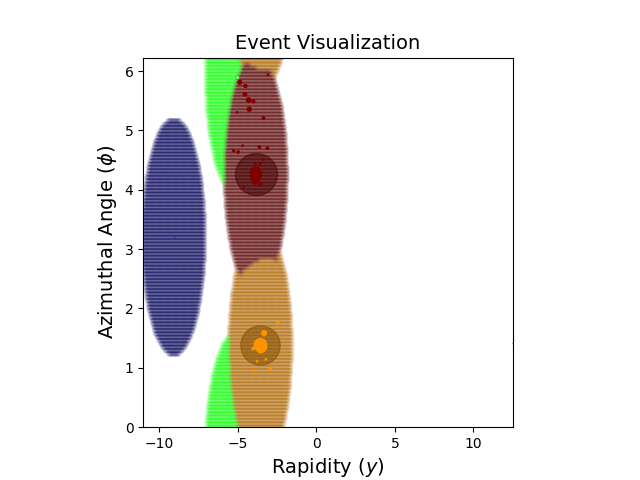
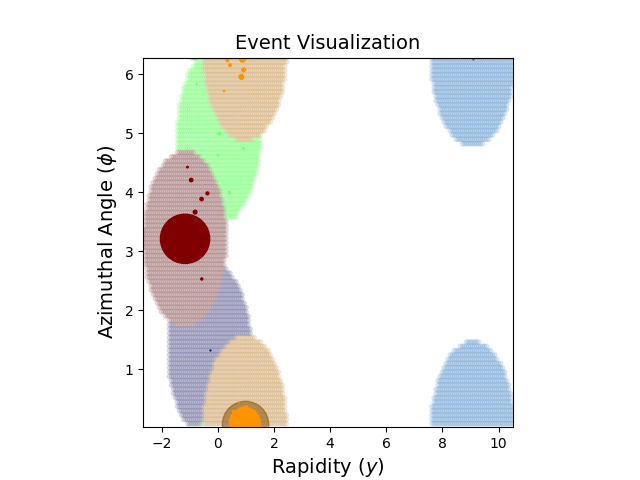
Added visualization to readme

diff --git a/README.md b/README.md
@@ -46,9 +46,14 @@ Jets help us bridge the gap between the low energy reality of our world and the 
     4) The structures that emerge in this radiative process are roughly cone-shaped -- because the "initial quark or gluon" is moving very fast, the radiation it releases tends to be moving very fast in the same direction.
     5) A **jet algorithm** is, loosely, an algorithm which groups together particles which lie together in cones. Jet algorithms are usually designed so that they can effectively represent the "original quarks and gluons" of step 2. When we apply a jet algorithm on a set of particles coming out of a particular particle collision, we call the resulting group of particles a **jet**. We can use our theory of quarks and gluons, and some complicated physics technology, to accurately describe the properties of jets that we see in particle collisions.
 
-Here is an example visualization of a jet:
-
 Jet algorithms are usually defined with a _radius_ -- roughly, they search for particles which lie in a circle in the space of outgoing particle angles.
+
+Here is an visualization of jets of radius 1.5 in an example particle collision, generated by calling ``./scripts/vis_events.sh -l hadron -p qcd -j akt -R 1.5 -r 0.0``:
+<p align="center">
+    <img src=""https://github.com/samcaf/Energy-Weighted-Observable-Correlators/blob/master/example_figs/example_jet_vis.png alt="simple_int" width="500">
+</p>
+In this picture, higher energy jets are more red, and lower energy jets are more blue. The points indicate particles in the jet and, roughly, the light background indicates in which jet the jet algorithm would place an additional, low energy particle in the event.
+
 
 Examining energy-weighted observables within jets is a popular and intriguing way to try and understand the energy profile of the "initial quark or gluon", by understanding what we can about correlations in this radiation profile.
 
@@ -57,6 +62,10 @@ Examining energy-weighted observables within jets is a popular and intriguing wa
 
 Sub-jets are jets within jets. When we consider all the particles within a jet of radius R (i.e. grouped together with a jet algorithm of radius R) and then apply _another_ jet algorithm with radius r < R, we are left with **subjets**. Energy weighted correlations of pairwise observables of subjets within a jet (subjet energy weighted observable correlations, or subjet EWOCs) provide an unexplored way of probing the patterns of energy that emerge in QCD.
 
+Here is an example visualization of some sub-jets of the highest energy jet from above (the dark red jet), generated by calling ``./scripts/vis_events.sh -l hadron -p qcd -j akt -R 2 -r 0.5``:
+<p align="center">
+    <img src=""https://github.com/samcaf/Energy-Weighted-Observable-Correlators/blob/master/example_figs/example_subjet_vis.png alt="simple_int" width="500">
+</p>
 
 ## <a name="maintainers"></a> Maintainers
 
